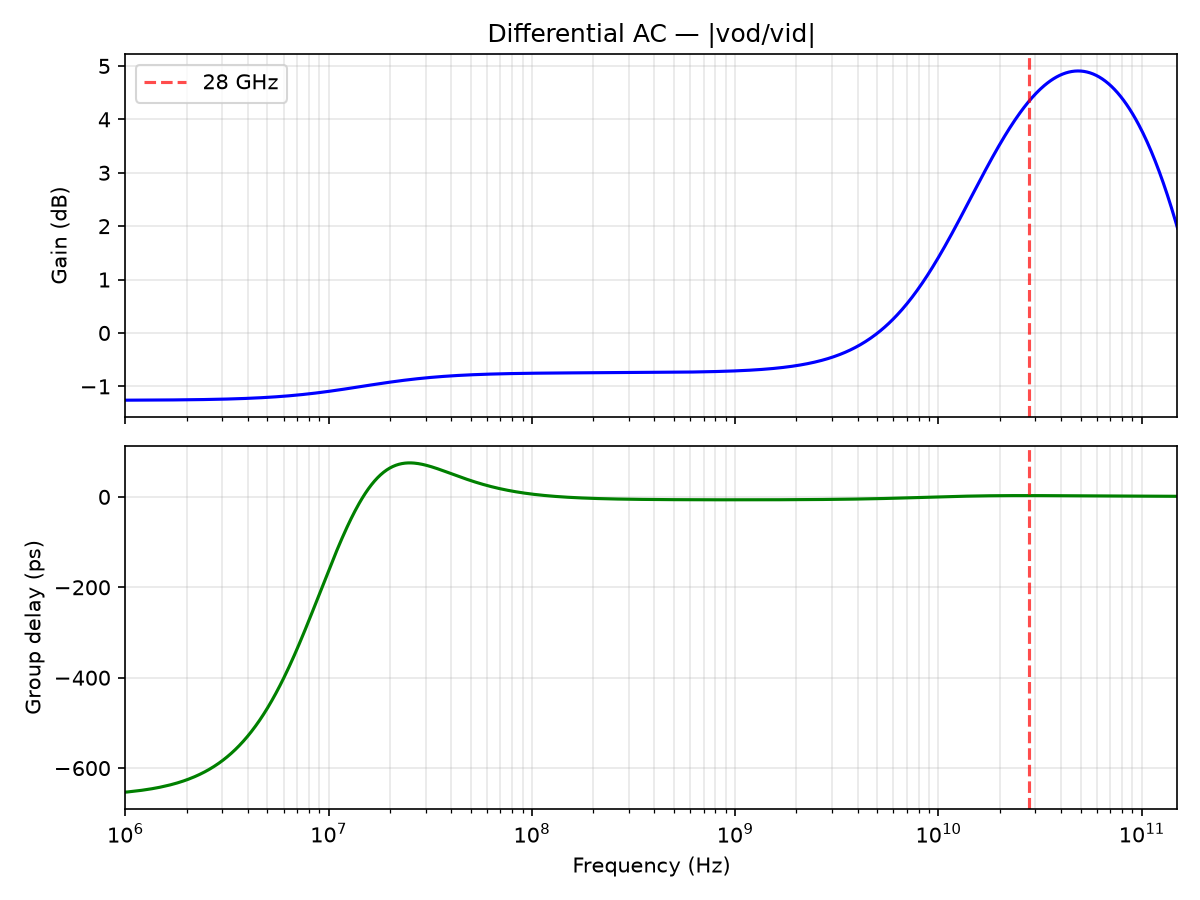
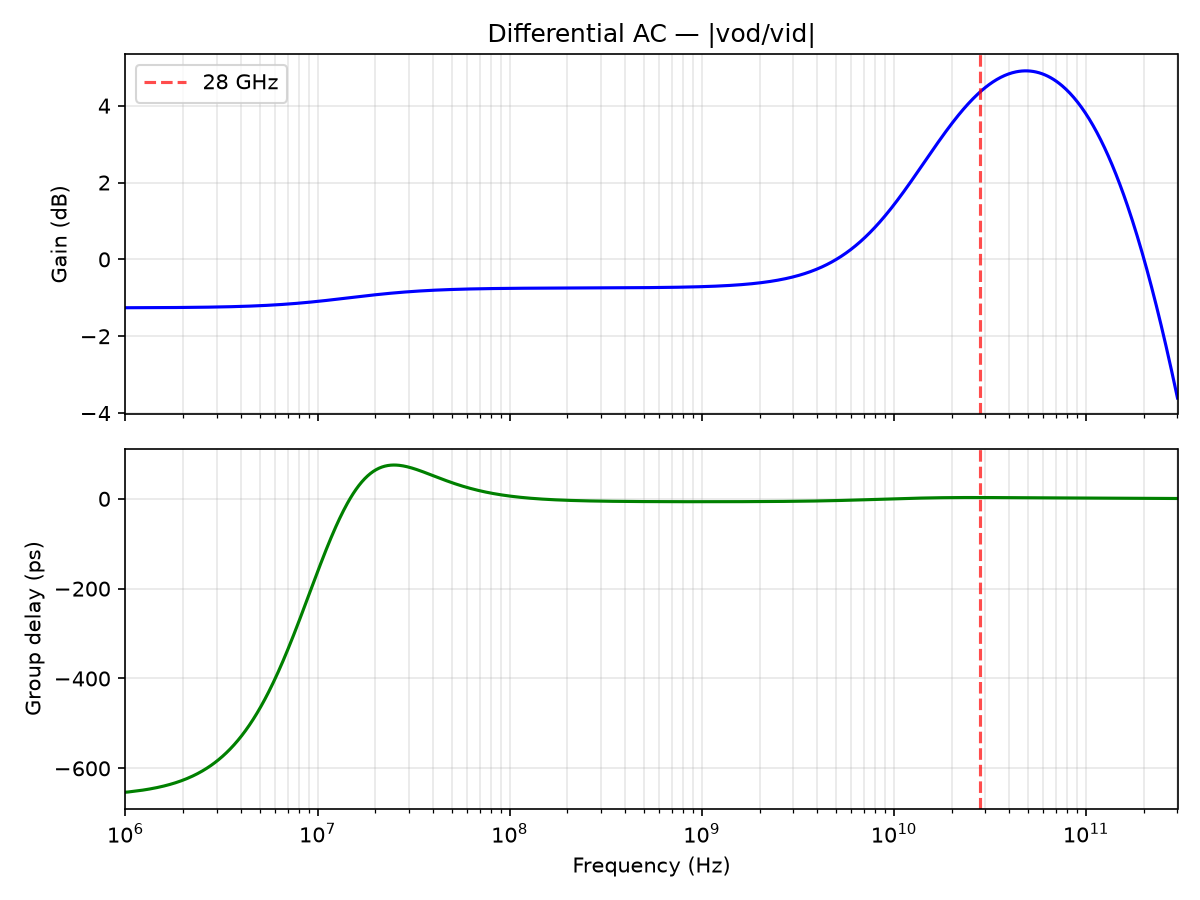
Fix transient wrdata columns and regenerate PRBS eye plots.
ngspice writes a duplicated time column even with wr_singlescale, so
outp was parsed as time (0 V). Map 6-column wrdata correctly and zoom
SE/eye axes around the 100 mVpp,diff swing.

diff --git a/circuits/ctle56n/python/run_sims.py b/circuits/ctle56n/python/run_sims.py
@@ -292,10 +292,12 @@ def parse_tran_raw(raw: Path) -> tuple[np.ndarray, np.ndarray, np.ndarray, np.nd
             if parts:
                 rows.append([float(x) for x in parts])
     arr = np.asarray(rows)
-    # wr_singlescale: time, outp, outn, inp, inn
-    # without it: time, outp, time, outn, time, inp, time, inn
+    # ngspice wrdata (real): often "time, time, v(outp), v(outn), v(inp), v(inn)"
+    # even with wr_singlescale. Without singlescale it interleaves time per vector.
     if arr.shape[1] >= 8:
         return arr[:, 0], arr[:, 1], arr[:, 3], arr[:, 5], arr[:, 7]
+    if arr.shape[1] >= 6:
+        return arr[:, 0], arr[:, 2], arr[:, 3], arr[:, 4], arr[:, 5]
     if arr.shape[1] >= 5:
         return arr[:, 0], arr[:, 1], arr[:, 2], arr[:, 3], arr[:, 4]
     raise RuntimeError(f"{raw}: expected ≥5 columns, got {arr.shape[1]}")
@@ -445,6 +447,10 @@ def _plot_tran_se(
     ax.plot(t_ns, v_outn, "r-", lw=1.0, label="v(outn)")
     ax.plot(t_ns, v_inp, color="b", alpha=0.35, lw=0.8, label="v(inp)")
     ax.plot(t_ns, v_inn, color="r", alpha=0.35, lw=0.8, label="v(inn)")
+    stacked = np.concatenate([v_outp, v_outn, v_inp, v_inn])
+    lo, hi = float(np.min(stacked)), float(np.max(stacked))
+    pad = max(0.02, 0.15 * (hi - lo))
+    ax.set_ylim(lo - pad, hi + pad)
     ax.set_xlabel("Time (ns)")
     ax.set_ylabel("Voltage (V)")
     ax.set_title("56G NRZ PRBS — single-ended (100 mVpp,diff stimulus)")
@@ -471,6 +477,10 @@ def _plot_tran_diff(
     fig, ax = plt.subplots(figsize=(10, 4))
     ax.plot(t_ns, vod, "b-", lw=1.0, label="vod = outp−outn")
     ax.plot(t_ns, vid, color="orange", alpha=0.7, lw=0.8, label="vid = inp−inn")
+    stacked = np.concatenate([vod, vid])
+    lo, hi = float(np.min(stacked)), float(np.max(stacked))
+    pad = max(10.0, 0.15 * (hi - lo))
+    ax.set_ylim(lo - pad, hi + pad)
     ax.set_xlabel("Time (ns)")
     ax.set_ylabel("Differential (mV)")
     ax.set_title("56G NRZ PRBS — differential waveforms")
@@ -529,6 +539,10 @@ def _plot_eye_se(
         ax.plot(t_ps, tr * 1e3, color="r", alpha=0.08, lw=0.6)
     ui_ps = UI_S * 1e12
     ax.axvline(ui_ps, color="k", ls="--", alpha=0.5, label="1 UI")
+    stacked = np.concatenate(traces_p + traces_n) * 1e3 if traces_p or traces_n else np.array([0.0])
+    lo, hi = float(np.min(stacked)), float(np.max(stacked))
+    pad = max(5.0, 0.15 * (hi - lo))
+    ax.set_ylim(lo - pad, hi + pad)
     ax.set_xlabel("Time (ps)")
     ax.set_ylabel("Voltage (mV)")
     ax.set_title("2-UI eye — single-ended (outp blue, outn red)")
@@ -555,6 +569,10 @@ def _plot_eye_diff(
         ax.plot(t_ps, tr * 1e3, color="b", alpha=0.08, lw=0.6)
     ui_ps = UI_S * 1e12
     ax.axvline(ui_ps, color="k", ls="--", alpha=0.5, label="1 UI")
+    stacked = np.concatenate(traces) * 1e3 if traces else np.array([0.0])
+    lo, hi = float(np.min(stacked)), float(np.max(stacked))
+    pad = max(5.0, 0.15 * (hi - lo))
+    ax.set_ylim(lo - pad, hi + pad)
     ax.set_xlabel("Time (ps)")
     ax.set_ylabel("vod (mV)")
     ax.set_title("2-UI eye — differential (vod)")
